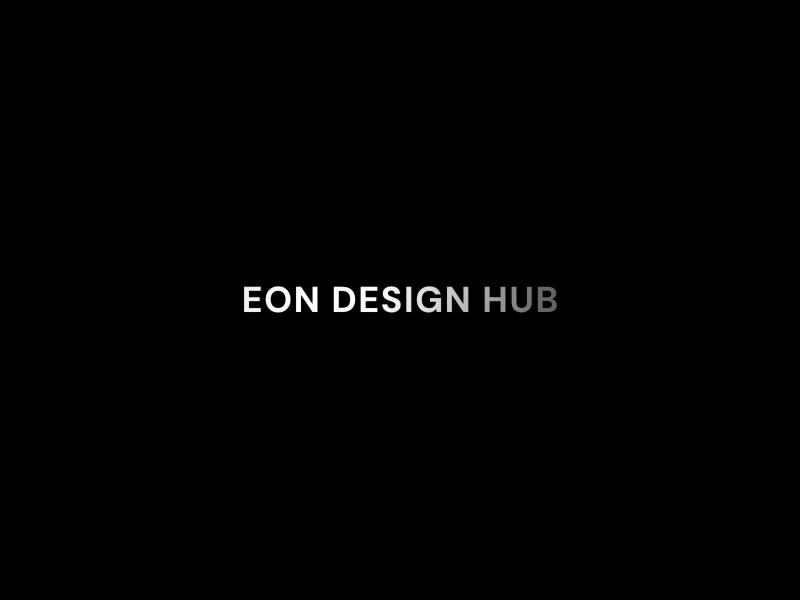
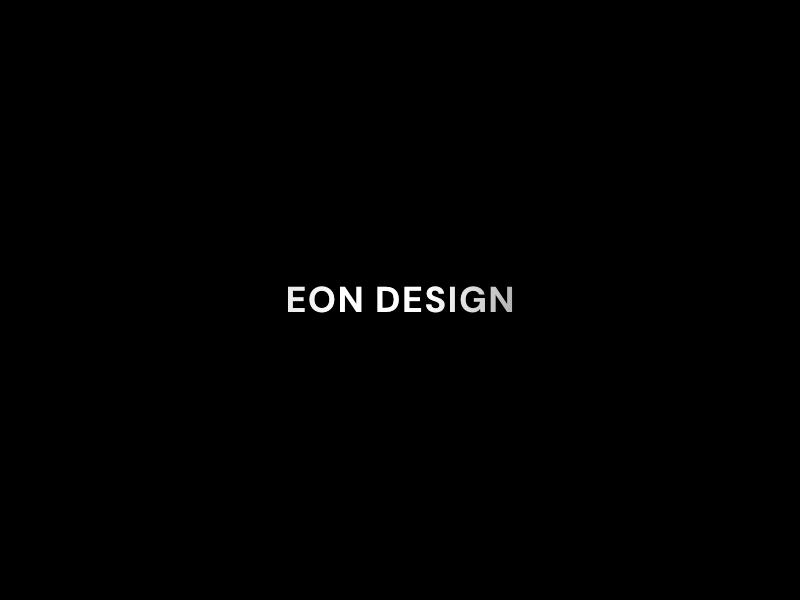
Loading screen: title reads Eon Design

Changed region(s): [[0.2812, 0.48, 0.7188, 0.54]]

diff --git a/src/lib/changelog.js b/src/lib/changelog.js
@@ -27,7 +27,7 @@ export const CHANGELOG = [
       {
         label: "Design",
         items: [
-          "The loading screen is just EON DESIGN HUB in bold chrome, with a light sweeping across it from left to right.",
+          "The loading screen is just EON DESIGN in bold chrome, with a light sweeping slowly across it from left to right.",
         ],
       },
     ],

diff --git a/src/components/LoadingScreen.jsx b/src/components/LoadingScreen.jsx
@@ -4,7 +4,7 @@
 export default function LoadingScreen({ children = "Loading…" }) {
   return (
     <div className="eon-loading-screen" role="status" aria-live="polite">
-      <strong>Eon Design Hub</strong>
+      <strong>Eon Design</strong>
       <span className="sr-only">{children}</span>
     </div>
   );
